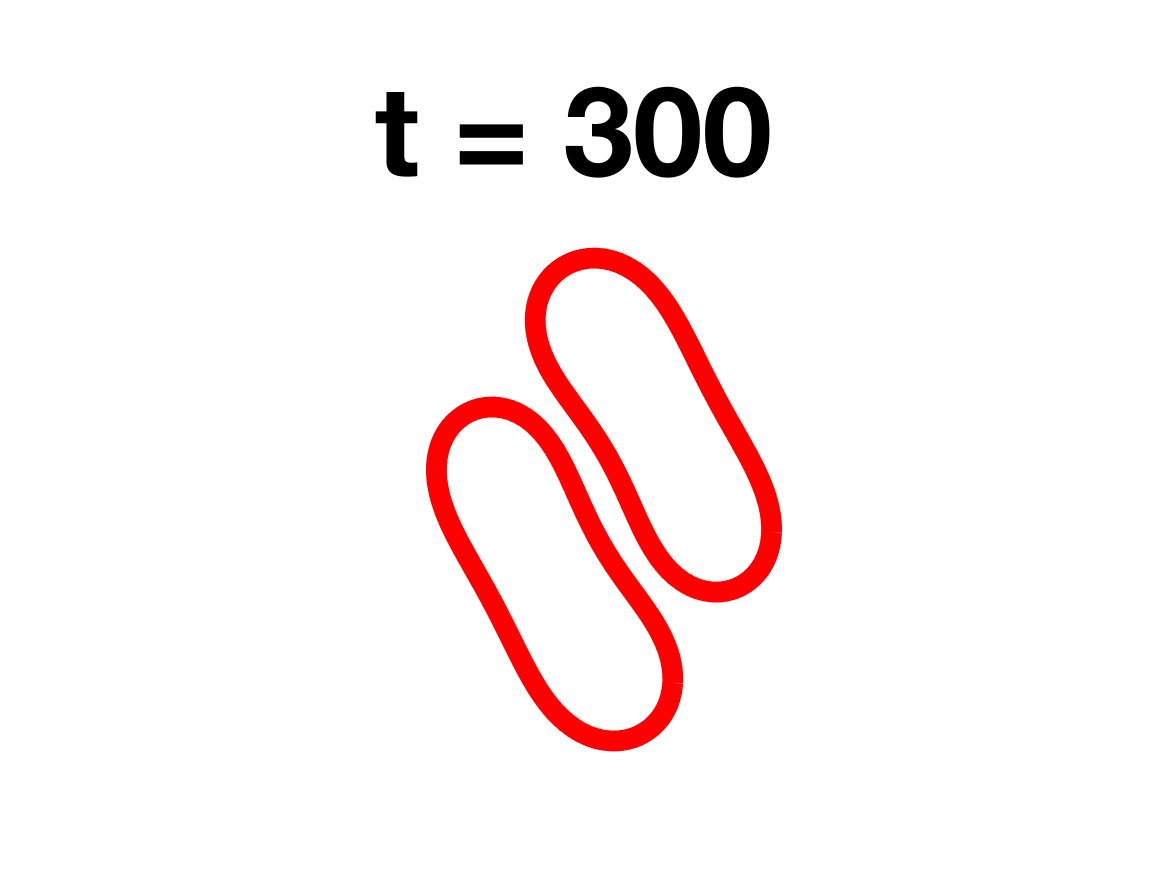
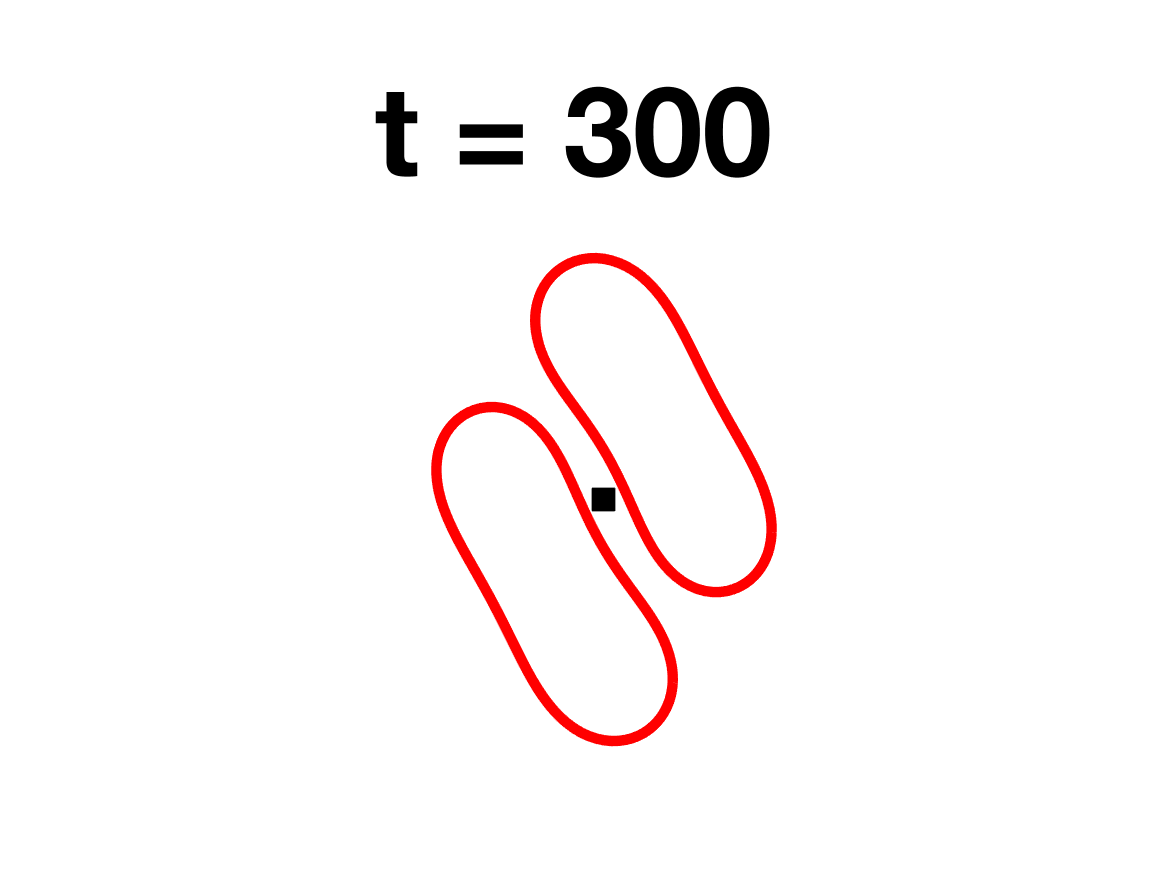
small changes to paper

Changed region(s): [[0.3393, 0.2777, 0.6787, 0.864]]

diff --git a/vesicle_code/docs/adhesion/adhesion.tex b/vesicle_code/docs/adhesion/adhesion.tex
@@ -123,9 +123,6 @@
 %\tableofcontents
 
 %%%%%%%%%%%%%%%%%%%%%%%%%%%%%%%%%%%%%%%%%%%%%%%%%%%%%%%%%%%%%%%%%%%%%%%%
-\todo[inline]{In the extensional flow, put a plus sign after the 0.
-Indicate the flow with arrows.  Do the same for the shear and Figure 9
-(right).}
 
 \section{Introduction}
 Vesicles (closed fluid-filled phospholipid bilayer membranes) have been
@@ -795,7 +792,9 @@ Figure~\ref{fig:extensionalPhaseDiagram}.
   {\em Right}: The definition of the inclination angle.  An inclination
   angle of $\pi$ indicates a doublet whose long axis is parallel to the
   converging direction, while an inclination angle of $\pi/2$ indicates
-  a doublet whose short axis is parallel to the converging direction.}
+  a doublet whose short axis is parallel to the converging direction.
+  The square mark is a stagnation point while the round point is located
+  at the center of the vesicle.}
 \end{figure}
 
 In Figures~\ref{fig:extensional1}--\ref{fig:extensional3}, we show
@@ -816,58 +815,60 @@ separation dynamics is different.  Instead, the vesicles tilt to an
 inclination angle and then separate (Figure~\ref{fig:extensional4}).
 
 \begin{figure}[htp]
-  \includegraphics[width = 0.19\textwidth]{figs/extensional_adR4em1adS7em1Chi2em2_ra070_image01.png}
-  \includegraphics[width = 0.19\textwidth]{figs/extensional_adR4em1adS7em1Chi2em2_ra070_image02.png}
-  \includegraphics[width = 0.19\textwidth]{figs/extensional_adR4em1adS7em1Chi2em2_ra070_image03.png}
-  \includegraphics[width = 0.19\textwidth]{figs/extensional_adR4em1adS7em1Chi2em2_ra070_image04.png}
-  \includegraphics[width = 0.19\textwidth]{figs/extensional_adR4em1adS7em1Chi2em2_ra070_image05.png}
+  \includegraphics[width = 0.19\textwidth,trim={5cm 2cm 5cm 1cm},clip]{figs/extensional_adR4em1adS7em1Chi2em2_ra070_image01.png}
+  \includegraphics[width = 0.19\textwidth,trim={5cm 2cm 5cm 1cm},clip]{figs/extensional_adR4em1adS7em1Chi2em2_ra070_image02.png}
+  \includegraphics[width = 0.19\textwidth,trim={5cm 2cm 5cm 1cm},clip]{figs/extensional_adR4em1adS7em1Chi2em2_ra070_image03.png}
+  \includegraphics[width = 0.19\textwidth,trim={5cm 2cm 5cm 1cm},clip]{figs/extensional_adR4em1adS7em1Chi2em2_ra070_image04.png}
+  \includegraphics[width = 0.19\textwidth,trim={5cm 2cm 5cm 1cm},clip]{figs/extensional_adR4em1adS7em1Chi2em2_ra070_image05.png}
   \caption{\label{fig:extensional1} Two vesicles in an extensional flow.
   The reduced area is $0.7$, the Hamaker constant is $H = 0.7$, and the
   adhesion length scale is $\delta = 0.4$, extensional rate is $\chi =
-  0.02$.  The doublet tilts to an inclination angle.
-  }
+  0.02$.  The center of the vesicle, denoted with a black square, is a
+  stagnation point.}
 \end{figure}
 
 
 \begin{figure}[htp]
-  \includegraphics[width = 0.19\textwidth]{figs/extensional_adR4em1adS7em1Chi7em2_ra070_image01.png}
-  \includegraphics[width = 0.19\textwidth]{figs/extensional_adR4em1adS7em1Chi7em2_ra070_image02.png}
-  \includegraphics[width = 0.19\textwidth]{figs/extensional_adR4em1adS7em1Chi7em2_ra070_image03.png}
-  \includegraphics[width = 0.19\textwidth]{figs/extensional_adR4em1adS7em1Chi7em2_ra070_image04.png}
-  \includegraphics[width = 0.19\textwidth]{figs/extensional_adR4em1adS7em1Chi7em2_ra070_image05.png}
+  \includegraphics[width = 0.19\textwidth,trim={5cm 2cm 5cm 1cm},clip]{figs/extensional_adR4em1adS7em1Chi7em2_ra070_image01.png}
+  \includegraphics[width = 0.19\textwidth,trim={5cm 2cm 5cm 1cm},clip]{figs/extensional_adR4em1adS7em1Chi7em2_ra070_image02.png}
+  \includegraphics[width = 0.19\textwidth,trim={5cm 2cm 5cm 1cm},clip]{figs/extensional_adR4em1adS7em1Chi7em2_ra070_image03.png}
+  \includegraphics[width = 0.19\textwidth,trim={5cm 2cm 5cm 1cm},clip]{figs/extensional_adR4em1adS7em1Chi7em2_ra070_image04.png}
+  \includegraphics[width = 0.19\textwidth,trim={5cm 2cm 5cm 1cm},clip]{figs/extensional_adR4em1adS7em1Chi7em2_ra070_image05.png}
   \caption{\label{fig:extensional2} Two vesicles in an extensional flow.
   The reduced area is $0.7$, the Hamaker constant is $H = 0.7$, and the
   adhesion length scale is $\delta = 0.4$, extensional rate is $\chi =
-  0.07$.  The doublet tilts to an inclination angle.}
+  0.07$.  The center of the vesicle, denoted with a black square, is a
+  stagnation point.}
 \end{figure}
 
-
+ 
 \begin{figure}[htp]
-  \includegraphics[width = 0.19\textwidth]{figs/extensional_adR4em1adS7em1Chi1em1_ra070_image01.png}
-  \includegraphics[width = 0.19\textwidth]{figs/extensional_adR4em1adS7em1Chi1em1_ra070_image02.png}
-  \includegraphics[width = 0.19\textwidth]{figs/extensional_adR4em1adS7em1Chi1em1_ra070_image03.png}
-  \includegraphics[width = 0.19\textwidth]{figs/extensional_adR4em1adS7em1Chi1em1_ra070_image04.png}
-  \includegraphics[width = 0.19\textwidth]{figs/extensional_adR4em1adS7em1Chi1em1_ra070_image05.png}
+  \includegraphics[width = 0.19\textwidth,trim={5cm 2cm 5cm 1cm},clip]{figs/extensional_adR4em1adS7em1Chi1em1_ra070_image01.png}
+  \includegraphics[width = 0.19\textwidth,trim={5cm 2cm 5cm 1cm},clip]{figs/extensional_adR4em1adS7em1Chi1em1_ra070_image02.png}
+  \includegraphics[width = 0.19\textwidth,trim={5cm 2cm 5cm 1cm},clip]{figs/extensional_adR4em1adS7em1Chi1em1_ra070_image03.png}
+  \includegraphics[width = 0.19\textwidth,trim={5cm 2cm 5cm 1cm},clip]{figs/extensional_adR4em1adS7em1Chi1em1_ra070_image04.png}
+  \includegraphics[width = 0.19\textwidth,trim={5cm 2cm 5cm 1cm},clip]{figs/extensional_adR4em1adS7em1Chi1em1_ra070_image05.png}
   \caption{\label{fig:extensional3} Two vesicles in an extensional flow.
   The reduced area is $0.7$, the Hamaker constant is $H = 0.7$, and the
   adhesion length scale is $\delta = 0.4$, extensional rate is $\chi =
-  0.1$.  The vesicles extensional rate has overcome the adhesive force,
-  and the vesicles doublet is broken.}
+  0.1$.  The center of the vesicle, denoted with a black square, is a
+  stagnation point.}
 \end{figure}
 
 
 \begin{figure}[htp]
-  \includegraphics[width = 0.19\textwidth]{figs/extensional_adR4em1adS7em1Chi1em1_ra080_image01.png}
-  \includegraphics[width = 0.19\textwidth]{figs/extensional_adR4em1adS7em1Chi1em1_ra080_image02.png}
-  \includegraphics[width = 0.19\textwidth]{figs/extensional_adR4em1adS7em1Chi1em1_ra080_image03.png}
-  \includegraphics[width = 0.19\textwidth]{figs/extensional_adR4em1adS7em1Chi1em1_ra080_image04.png}
-  \includegraphics[width = 0.19\textwidth]{figs/extensional_adR4em1adS7em1Chi1em1_ra080_image05.png}
+  \includegraphics[width = 0.19\textwidth,trim={5cm 2cm 5cm 1cm},clip]{figs/extensional_adR4em1adS7em1Chi1em1_ra080_image01.png}
+  \includegraphics[width = 0.19\textwidth,trim={5cm 2cm 5cm 1cm},clip]{figs/extensional_adR4em1adS7em1Chi1em1_ra080_image02.png}
+  \includegraphics[width = 0.19\textwidth,trim={5cm 2cm 5cm 1cm},clip]{figs/extensional_adR4em1adS7em1Chi1em1_ra080_image03.png}
+  \includegraphics[width = 0.19\textwidth,trim={5cm 2cm 5cm 1cm},clip]{figs/extensional_adR4em1adS7em1Chi1em1_ra080_image04.png}
+  \includegraphics[width = 0.19\textwidth,trim={5cm 2cm 5cm 1cm},clip]{figs/extensional_adR4em1adS7em1Chi1em1_ra080_image05.png}
   \caption{\label{fig:extensional3} Two vesicles in an extensional flow.
   The reduced area is $0.8$, the Hamaker constant is $H = 0.7$, and the
-  adhesion length scale is $\delta0.4$, extensional rate is $\chi =
+  adhesion length scale is $\delta = 0.4$, extensional rate is $\chi =
   0.1$.  Initially, the doublet tilts to an inclination angle, and then
   the extensional rate overcomes the adhesive force and the doublet is
-  broken.}
+  broken.  The center of the vesicle, denoted with a black square, is a
+  stagnation point.}
 \end{figure}
 
 \begin{figure}[htp]
@@ -927,6 +928,7 @@ doublets are formed (blue curves).
   \todo[inline]{Superimpose the background velocity on the leftmost plot
   to indicate the shearing motion}
 \end{figure}
+\todo[inline]{Indicate the shear flow in the right most plot.}
 
 \begin{figure}
   \includegraphics[height=0.4\textwidth]{figs/shear_adR4em1Chi1e0_ra-090.pdf}

diff --git a/vesicle_code/examples/output/makeImages.m b/vesicle_code/examples/output/makeImages.m
@@ -5,7 +5,7 @@ irate = 25; % controls the speed of the visualization
 
 if 1
   file = 'extensional2VesBData.bin';
-%  file = '~/projects/brinkman/vesicle_code/results/extensional2Ves/adR4em1adS7em1Chi1em1_ra070/extensional2VesData.bin';
+  file = '~/projects/brinkman/vesicle_code/results/extensional2Ves/adR4em1adS7em1Chi9em2_ra070_longT/extensional2VesData.bin';
   ax = [-4 4 -5 5];
   options.confined = false;
 end
